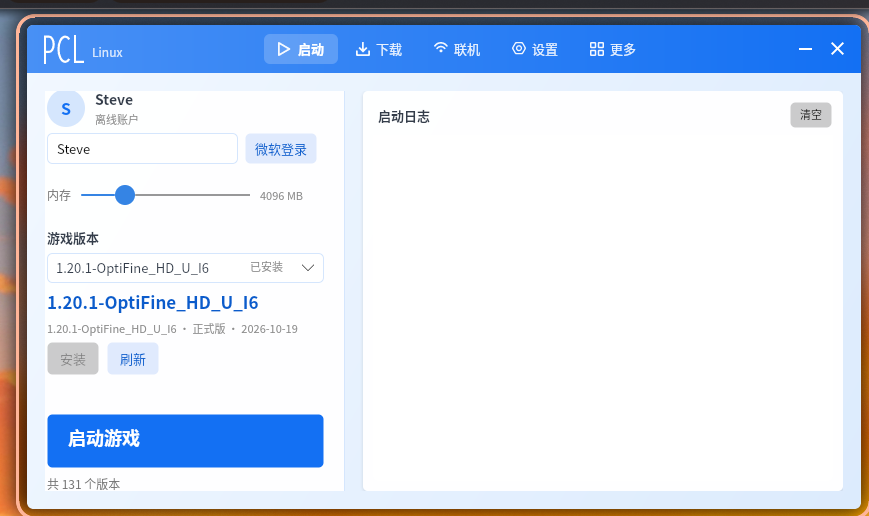
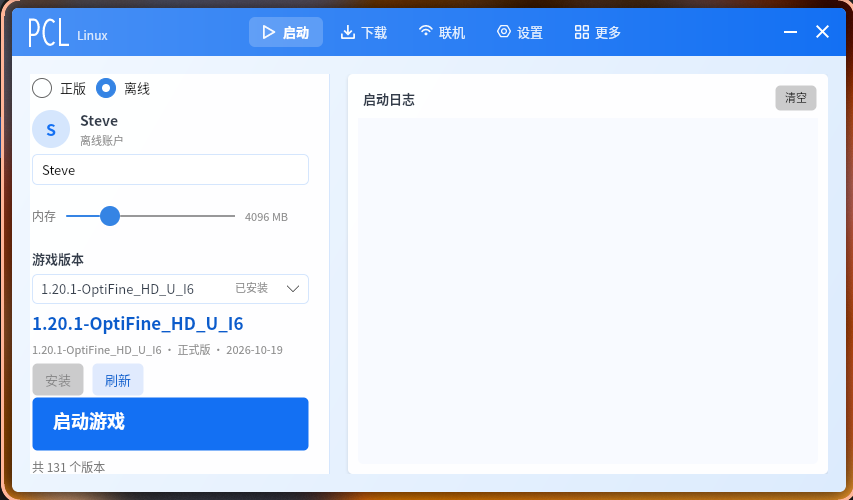
UI: PCL2 online/offline account selector

Changed region(s): [[0.0, 0.0, 1.0, 1.0], [0.4267, 0.18, 0.5182, 0.24], [0.9754, 0.69, 1.0, 0.75]]

diff --git a/src/PCL.App/Views/LaunchView.axaml.cs b/src/PCL.App/Views/LaunchView.axaml.cs
@@ -17,9 +17,10 @@ public partial class LaunchView : UserControl
         };
     }
 
-    private async void OnMicrosoftLoginClick(object? sender, RoutedEventArgs e)
+    private async void OnOnlineAccountClick(object? sender, RoutedEventArgs e)
     {
         if (DataContext is not LaunchViewModel viewModel) return;
+        if (viewModel.IsMicrosoftAccount) return;
 
         var loginViewModel = new MicrosoftLoginViewModel(viewModel.Services);
         var window = new MicrosoftLoginWindow { DataContext = loginViewModel };
@@ -28,5 +29,19 @@ public partial class LaunchView : UserControl
         await window.ShowDialog(owner);
         if (loginViewModel.Account is not null)
             viewModel.SetMicrosoftAccount(loginViewModel.Account);
+        else
+            ResetAccountRadios(viewModel);
+    }
+
+    private void OnOfflineAccountClick(object? sender, RoutedEventArgs e)
+    {
+        if (DataContext is LaunchViewModel { IsMicrosoftAccount: true } viewModel)
+            viewModel.LogoutMicrosoftCommand.Execute(null);
+    }
+
+    private void ResetAccountRadios(LaunchViewModel viewModel)
+    {
+        OnlineAccountRadio.IsChecked = viewModel.IsMicrosoftAccount;
+        OfflineAccountRadio.IsChecked = viewModel.IsOfflineAccount;
     }
 }

diff --git a/docs/PROGRESS.md b/docs/PROGRESS.md
@@ -415,6 +415,7 @@ dotnet run --project src/PCL.Cli -c Release -- launch 1.21.1 --offline Steve --d
 - “更多”补成 PCL2 的五个子页：帮助 / 关于与鸣谢 / 百宝箱 / 反馈 / 新功能投票；百宝箱按原版开源说明保留“不包含百宝箱功能”的文案。
 - 设置补成四项：启动 / 联机 / 个性化 / 其他；联机设置页保留 PCL2 层级并注明尚未实现。
 - 截图：`m33-pcl-more.png`、`m34-pcl-settings-4.png`。
+- 启动页账户区改为 PCL2 的“正版 / 离线”单选；正版项打开微软设备码登录，离线项保留自定义玩家名。
 - 最终截图：`m32-pcl-launch-final.png`。
 
 ## HTTP 代理 ✅
